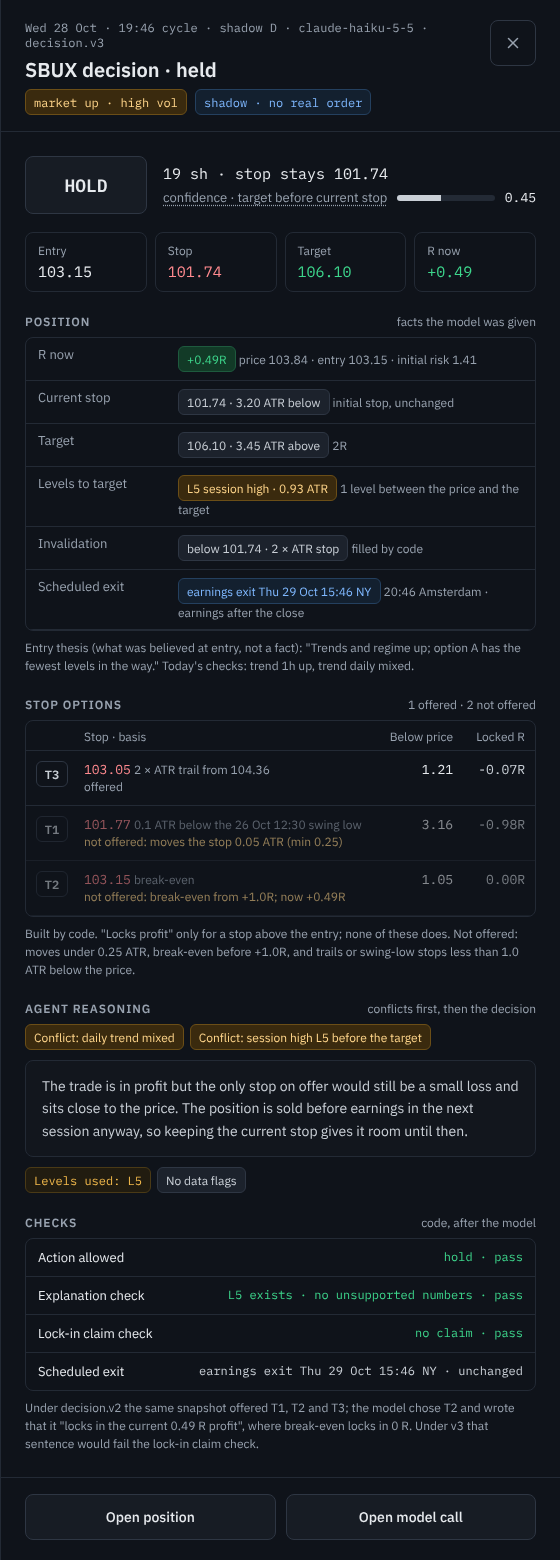
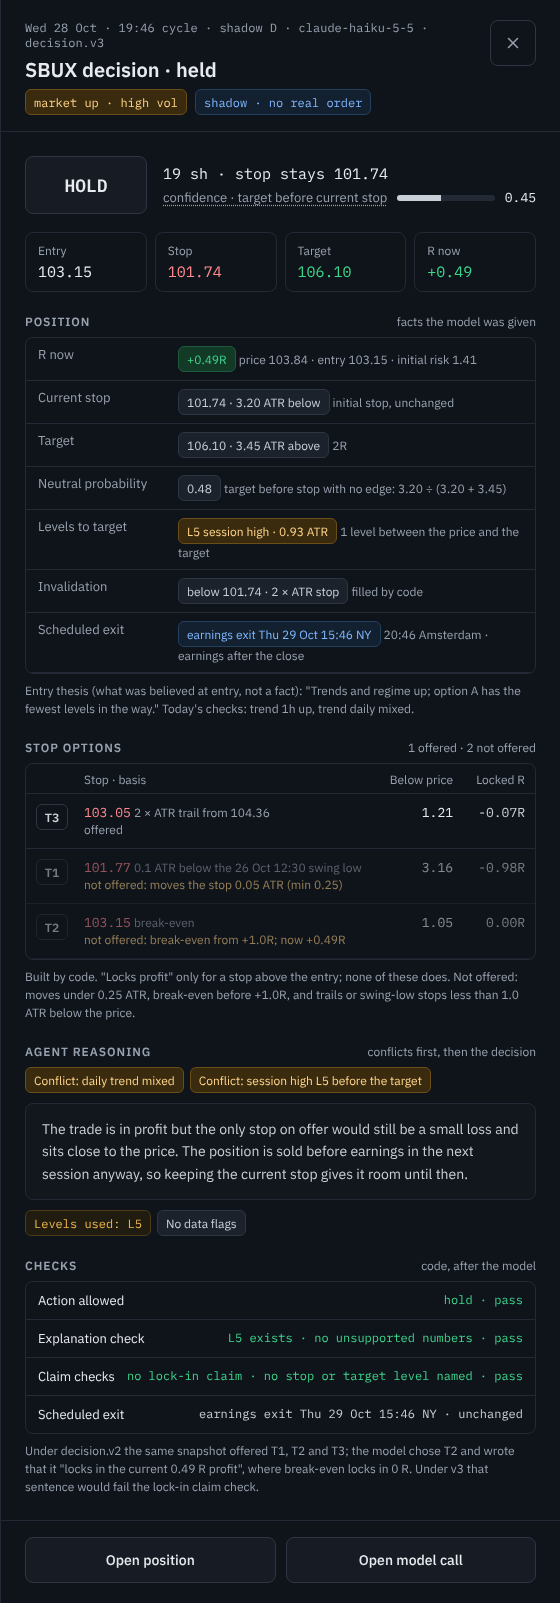
spec: v3 held confidence, stop claims, momentum, merged levels
From the review of a held ACN decision (28 Oct 15:46):
- checks.momentum; levels within 0.05 ATR merged into one id with kinds
- held: neutral_probability as the confidence starting point,
  stop_level, invalidation naming the level by kind, time and price
- stop and target basis written by code; claim check for a stop or
  target attributed to the wrong level
- decision.v3.md (unused) updated to match; config level_merge_atr
- design: momentum row, "written by code" basis line, neutral
  probability row, claim checks gate
- kickoffs: PR 30 updated; new read-only analysis of IEX quote
  plausibility

Claude-Session: https://claude.ai/code/session_01TTAYs1XwGZDitQPmFWu5tz

diff --git a/design/screens/DecisionV3.dc.html b/design/screens/DecisionV3.dc.html
@@ -55,6 +55,9 @@ a{color:#F2B94B}a:hover{color:#FFD58A}
   <span style="color: #98A2AF">Room to first level</span>
   <span style="min-width: 0"><span style="display: inline-flex; align-items: center; height: 24px; padding: 0 8px; border-radius: 6px; font-size: 12px; white-space: nowrap; background: #123A27; color: #3DD68C; border: 1px solid #1E5A3E">1.35 ATR · L3</span> <span style="font-size: 12px; color: #98A2AF">at least 1.0 ATR</span></span>
 </div><div style="display: grid; grid-template-columns: 150px minmax(0, 1fr); gap: 10px; padding: 8px 12px; border-top: 1px solid #232A35; font-size: 13px">
+  <span style="color: #98A2AF">Momentum</span>
+  <span style="min-width: 0"><span style="display: inline-flex; align-items: center; height: 24px; padding: 0 8px; border-radius: 6px; font-size: 12px; white-space: nowrap; background: #123A27; color: #3DD68C; border: 1px solid #1E5A3E">strong</span> <span style="font-size: 12px; color: #98A2AF">relative strength vs SPY +0.84% · OBV up</span></span>
+</div><div style="display: grid; grid-template-columns: 150px minmax(0, 1fr); gap: 10px; padding: 8px 12px; border-top: 1px solid #232A35; font-size: 13px">
   <span style="color: #98A2AF">Earnings</span>
   <span style="min-width: 0"><span style="display: inline-flex; align-items: center; height: 24px; padding: 0 8px; border-radius: 6px; font-size: 12px; white-space: nowrap; background: #1C222C; color: #C9CFD6; border: 1px solid #2E3643">9 trading days · 27 Oct after close</span> <span style="font-size: 12px; color: #98A2AF">outside the 3-day blackout</span></span>
 </div><div style="display: grid; grid-template-columns: 150px minmax(0, 1fr); gap: 10px; padding: 8px 12px; border-top: 1px solid #232A35; font-size: 13px">
@@ -125,7 +128,7 @@ a{color:#F2B94B}a:hover{color:#FFD58A}
   <span style="font-family: 'IBM Plex Mono', monospace">414.60</span>
   <span style="min-width: 0; color: #C9CFD6">swing low <span style="color: #98A2AF">· 1h · 14 Oct 12:30</span> <span style="font-size: 12px; color: #98A2AF">· too close for a stop · 1.23 ATR</span></span>
 </div><div style="display: grid; grid-template-columns: 34px 64px minmax(0, 1fr); gap: 8px; padding: 7px 10px; font-size: 13px; border-top: 1px solid #232A35">
-  <span style="font-family: 'IBM Plex Mono', monospace; color: #F2B94B; font-weight: 600">L8</span>
+  <span style="font-family: 'IBM Plex Mono', monospace; color: #98A2AF; font-weight: 400">L8</span>
   <span style="font-family: 'IBM Plex Mono', monospace">409.95</span>
   <span style="min-width: 0; color: #C9CFD6">swing low <span style="color: #98A2AF">· 1h · 13 Oct 14:30</span> <span style="font-size: 12px; color: #98A2AF">· stop 409.64 · 2.73 ATR</span></span>
 </div><div style="display: grid; grid-template-columns: 34px 64px minmax(0, 1fr); gap: 8px; padding: 7px 10px; font-size: 13px; border-top: 1px solid #232A35">
@@ -136,13 +139,14 @@ a{color:#F2B94B}a:hover{color:#FFD58A}
 
     <div style="display: flex; justify-content: space-between; align-items: baseline; gap: 8px; margin: 22px 0 8px"><h3 style="margin: 0; font-size: 12px; font-weight: 600; color: #98A2AF; text-transform: uppercase; letter-spacing: 0.08em">Agent reasoning</h3><span style="font-size: 12px; color: #98A2AF">conflicts first, then the decision</span></div>
     <div style="display: flex; flex-wrap: wrap; gap: 6px; margin-bottom: 10px"><span style="display: inline-flex; align-items: center; height: 24px; padding: 0 8px; border-radius: 6px; font-size: 12px; white-space: nowrap; background: #3A2A0E; color: #FFD58A; border: 1px solid #6B4E17">Conflict: RSI 63 near the top of its range</span><span style="display: inline-flex; align-items: center; height: 24px; padding: 0 8px; border-radius: 6px; font-size: 12px; white-space: nowrap; background: #3A2A0E; color: #FFD58A; border: 1px solid #6B4E17">Conflict: October high L1 before the 2R target</span></div>
-    <div style="padding: 14px 16px; border: 1px solid #232A35; border-radius: 8px; background: #12161D; line-height: 1.6; color: #C9CFD6">Both trends and the market agree, and the first hurdle (L3) is far enough away. The pullback to the 1h EMA 20 held above VWAP (L4). The stop goes under the 13 Oct swing low (L8); the October high (L1) is the main risk on the way to the 2R target.</div>
-    <div style="display: flex; flex-wrap: wrap; gap: 6px; margin-top: 10px"><span style="display: inline-flex; align-items: center; height: 24px; padding: 0 8px; border-radius: 6px; font-family: 'IBM Plex Mono', monospace; font-size: 12px; white-space: nowrap; background: #211C10; color: #F2B94B; border: 1px solid #4A3A16">Levels used: L1 · L3 · L4 · L8</span><span style="display: inline-flex; align-items: center; height: 24px; padding: 0 8px; border-radius: 6px; font-size: 12px; white-space: nowrap; background: #1C222C; color: #C9CFD6; border: 1px solid #2E3643">No data flags</span></div>
+    <div style="padding: 14px 16px; border: 1px solid #232A35; border-radius: 8px; background: #12161D; line-height: 1.6; color: #C9CFD6">Both trends and the market agree, and the first hurdle (L3) is far enough away. The pullback to the 1h EMA 20 held above VWAP (L4). Momentum is strong, and the October high (L1) is the main risk on the way to the target.</div>
+    <div style="margin-top: 8px; font-size: 12px; color: #98A2AF; line-height: 1.5">Written by code: stop 409.64, 0.1 ATR below the 13 Oct 14:30 1h swing low (L8) · target 435.92, 2R.</div>
+    <div style="display: flex; flex-wrap: wrap; gap: 6px; margin-top: 10px"><span style="display: inline-flex; align-items: center; height: 24px; padding: 0 8px; border-radius: 6px; font-family: 'IBM Plex Mono', monospace; font-size: 12px; white-space: nowrap; background: #211C10; color: #F2B94B; border: 1px solid #4A3A16">Levels used: L1 · L3 · L4</span><span style="display: inline-flex; align-items: center; height: 24px; padding: 0 8px; border-radius: 6px; font-size: 12px; white-space: nowrap; background: #1C222C; color: #C9CFD6; border: 1px solid #2E3643">No data flags</span></div>
     <div style="display: flex; align-items: center; gap: 8px; margin-top: 10px; padding: 10px 12px; border: 1px solid #1E5A3E; background: #123A27; border-radius: 8px; font-size: 13px; color: #3DD68C"><svg width="16" height="16" viewBox="0 0 24 24" fill="none" stroke="currentColor" stroke-width="2" stroke-linecap="round" stroke-linejoin="round" aria-hidden="true" style="flex: 0 0 16px"><polyline points="5 12 10 17 19 7"></polyline></svg><span>Explanation check passed: every level id exists and no number is outside the input.</span></div>
     <div style="margin-top: 10px; padding: 10px 12px; border: 1px dashed #2E3643; border-radius: 8px; font-size: 12px; color: #98A2AF; line-height: 1.5"><b style="color: #C9CFD6; font-weight: 600">When code removes every option</b>, no model call is made and the drawer shows the reason instead, for example: <span style="font-family: 'IBM Plex Mono', monospace; color: #C9CFD6">no_options · room: L7 1h swing high 0.31 ATR above the limit (min 1.0)</span>. <b style="color: #C9CFD6; font-weight: 600">When the model flags a data conflict</b>, a red chip such as "Data flag: earnings date conflict" appears here and an event is logged.</div>
 
     <div style="display: flex; justify-content: space-between; align-items: baseline; gap: 8px; margin: 22px 0 8px"><h3 style="margin: 0; font-size: 12px; font-weight: 600; color: #98A2AF; text-transform: uppercase; letter-spacing: 0.08em">Safety gates</h3><span style="font-size: 12px; color: #98A2AF">option, code checks, then risk gates</span></div>
-    <div style="border: 1px solid #232A35; border-radius: 8px; overflow: hidden"><div style="display: flex; justify-content: space-between; gap: 12px; padding: 10px 12px;  font-size: 13px"><span>Option D offered</span><span style="font-family: 'IBM Plex Mono', monospace; font-size: 12px; color: #3DD68C; text-align: right">valid choice · pass</span></div><div style="display: flex; justify-content: space-between; gap: 12px; padding: 10px 12px; border-top: 1px solid #232A35; font-size: 13px"><span>Stop 1.5–4 × ATR (1h)</span><span style="font-family: 'IBM Plex Mono', monospace; font-size: 12px; color: #3DD68C; text-align: right">8.46 = 2.73 × ATR · pass</span></div><div style="display: flex; justify-content: space-between; gap: 12px; padding: 10px 12px; border-top: 1px solid #232A35; font-size: 13px"><span>Reward / risk ≥ 1.5</span><span style="font-family: 'IBM Plex Mono', monospace; font-size: 12px; color: #3DD68C; text-align: right">2.00 · pass</span></div><div style="display: flex; justify-content: space-between; gap: 12px; padding: 10px 12px; border-top: 1px solid #232A35; font-size: 13px"><span>Room to first level ≥ 1.0 ATR</span><span style="font-family: 'IBM Plex Mono', monospace; font-size: 12px; color: #3DD68C; text-align: right">L3 · 1.35 · pass</span></div><div style="display: flex; justify-content: space-between; gap: 12px; padding: 10px 12px; border-top: 1px solid #232A35; font-size: 13px"><span>Confidence ≥ max(0.55, break-even + 0.10)</span><span style="font-family: 'IBM Plex Mono', monospace; font-size: 12px; color: #3DD68C; text-align: right">0.61 ≥ max(0.55, 0.43) · pass</span></div><div style="display: flex; justify-content: space-between; gap: 12px; padding: 10px 12px; border-top: 1px solid #232A35; font-size: 13px"><span>Explanation check</span><span style="font-family: 'IBM Plex Mono', monospace; font-size: 12px; color: #3DD68C; text-align: right">L1, L3, L4, L8 exist · no unsupported numbers · pass</span></div><div style="display: flex; justify-content: space-between; gap: 12px; padding: 10px 12px; border-top: 1px solid #232A35; font-size: 13px"><span>Risk per trade ≤ 0.5%</span><span style="font-family: 'IBM Plex Mono', monospace; font-size: 12px; color: #3DD68C; text-align: right">$35.04 = 0.34% · pass</span></div><div style="display: flex; justify-content: space-between; gap: 12px; padding: 10px 12px; border-top: 1px solid #232A35; font-size: 13px"><span>Max position 20%</span><span style="font-family: 'IBM Plex Mono', monospace; font-size: 12px; color: #F2B94B; text-align: right">5 → 4 sh · 16.4% · reduced</span></div><div style="display: flex; justify-content: space-between; gap: 12px; padding: 10px 12px; border-top: 1px solid #232A35; font-size: 13px"><span>Other risk gates</span><span style="font-family: 'IBM Plex Mono', monospace; font-size: 12px; color: #3DD68C; text-align: right">9 of 9 pass</span></div><div style="display: flex; justify-content: space-between; gap: 12px; padding: 10px 12px; border-top: 1px solid #232A35; font-size: 13px"><span>Fresh quote at order time</span><span style="font-family: 'IBM Plex Mono', monospace; font-size: 12px; color: #C9CFD6; text-align: right">virtual fill · shadow</span></div></div>
+    <div style="border: 1px solid #232A35; border-radius: 8px; overflow: hidden"><div style="display: flex; justify-content: space-between; gap: 12px; padding: 10px 12px;  font-size: 13px"><span>Option D offered</span><span style="font-family: 'IBM Plex Mono', monospace; font-size: 12px; color: #3DD68C; text-align: right">valid choice · pass</span></div><div style="display: flex; justify-content: space-between; gap: 12px; padding: 10px 12px; border-top: 1px solid #232A35; font-size: 13px"><span>Stop 1.5–4 × ATR (1h)</span><span style="font-family: 'IBM Plex Mono', monospace; font-size: 12px; color: #3DD68C; text-align: right">8.46 = 2.73 × ATR · pass</span></div><div style="display: flex; justify-content: space-between; gap: 12px; padding: 10px 12px; border-top: 1px solid #232A35; font-size: 13px"><span>Reward / risk ≥ 1.5</span><span style="font-family: 'IBM Plex Mono', monospace; font-size: 12px; color: #3DD68C; text-align: right">2.00 · pass</span></div><div style="display: flex; justify-content: space-between; gap: 12px; padding: 10px 12px; border-top: 1px solid #232A35; font-size: 13px"><span>Room to first level ≥ 1.0 ATR</span><span style="font-family: 'IBM Plex Mono', monospace; font-size: 12px; color: #3DD68C; text-align: right">L3 · 1.35 · pass</span></div><div style="display: flex; justify-content: space-between; gap: 12px; padding: 10px 12px; border-top: 1px solid #232A35; font-size: 13px"><span>Confidence ≥ max(0.55, break-even + 0.10)</span><span style="font-family: 'IBM Plex Mono', monospace; font-size: 12px; color: #3DD68C; text-align: right">0.61 ≥ max(0.55, 0.43) · pass</span></div><div style="display: flex; justify-content: space-between; gap: 12px; padding: 10px 12px; border-top: 1px solid #232A35; font-size: 13px"><span>Explanation check</span><span style="font-family: 'IBM Plex Mono', monospace; font-size: 12px; color: #3DD68C; text-align: right">L1, L3, L4 exist · no unsupported numbers · pass</span></div><div style="display: flex; justify-content: space-between; gap: 12px; padding: 10px 12px; border-top: 1px solid #232A35; font-size: 13px"><span>Claim checks</span><span style="font-family: 'IBM Plex Mono', monospace; font-size: 12px; color: #3DD68C; text-align: right">no stop or target level named · pass</span></div><div style="display: flex; justify-content: space-between; gap: 12px; padding: 10px 12px; border-top: 1px solid #232A35; font-size: 13px"><span>Risk per trade ≤ 0.5%</span><span style="font-family: 'IBM Plex Mono', monospace; font-size: 12px; color: #3DD68C; text-align: right">$35.04 = 0.34% · pass</span></div><div style="display: flex; justify-content: space-between; gap: 12px; padding: 10px 12px; border-top: 1px solid #232A35; font-size: 13px"><span>Max position 20%</span><span style="font-family: 'IBM Plex Mono', monospace; font-size: 12px; color: #F2B94B; text-align: right">5 → 4 sh · 16.4% · reduced</span></div><div style="display: flex; justify-content: space-between; gap: 12px; padding: 10px 12px; border-top: 1px solid #232A35; font-size: 13px"><span>Other risk gates</span><span style="font-family: 'IBM Plex Mono', monospace; font-size: 12px; color: #3DD68C; text-align: right">9 of 9 pass</span></div><div style="display: flex; justify-content: space-between; gap: 12px; padding: 10px 12px; border-top: 1px solid #232A35; font-size: 13px"><span>Fresh quote at order time</span><span style="font-family: 'IBM Plex Mono', monospace; font-size: 12px; color: #C9CFD6; text-align: right">virtual fill · shadow</span></div></div>
     <div style="font-size: 12px; color: #98A2AF; margin-top: 8px; line-height: 1.5">Shadow C (decision.v2) on the same snapshot: ENTER option D, without the room and break-even checks. At order time the chosen stop and target stay fixed; if the fresh price breaks the stop distance or R/R, the entry fails the Fresh quote gate. Code never picks another option.</div>
   </div>
 

diff --git a/design/screens/DecisionV3Held.dc.html b/design/screens/DecisionV3Held.dc.html
@@ -31,7 +31,7 @@ a{color:#F2B94B}a:hover{color:#FFD58A}
       <div style="min-width: 88px; height: 56px; padding: 0 16px; border-radius: 8px; display: flex; align-items: center; justify-content: center; font-family: 'IBM Plex Mono', monospace; font-weight: 600; font-size: 18px; background: #171C24; color: #E7EAEE; border: 1px solid #2E3643">HOLD</div>
       <div style="flex: 1; min-width: 0; display: flex; flex-direction: column; gap: 6px">
         <div style="font-family: 'IBM Plex Mono', monospace; font-size: 15px">19 sh · stop stays 101.74</div>
-        <div style="display: flex; align-items: center; gap: 10px; font-size: 13px; color: #98A2AF"><span title="Hold: the model's estimate that price reaches the target before the current stop. Not gated; kept out of the entry calibration." style="text-decoration: underline dotted; text-underline-offset: 3px; cursor: help">confidence · target before current stop</span>
+        <div style="display: flex; align-items: center; gap: 10px; font-size: 13px; color: #98A2AF"><span title="Hold: the model's estimate that price reaches the target before the current stop. Starts from the neutral probability (0.48). Not gated; kept out of the entry calibration." style="text-decoration: underline dotted; text-underline-offset: 3px; cursor: help">confidence · target before current stop</span>
           <div style="flex: 1; height: 6px; background: #232A35; border-radius: 3px; overflow: hidden"><div style="width: 45%; height: 6px; background: #C9CFD6"></div></div>
           <span style="font-family: 'IBM Plex Mono', monospace; color: #E7EAEE">0.45</span></div>
       </div>
@@ -51,6 +51,9 @@ a{color:#F2B94B}a:hover{color:#FFD58A}
 </div><div style="display: grid; grid-template-columns: 130px minmax(0, 1fr); gap: 10px; padding: 8px 12px; border-bottom: 1px solid #232A35; font-size: 13px">
   <span style="color: #98A2AF">Target</span>
   <span style="min-width: 0"><span style="display: inline-flex; align-items: center; height: 24px; padding: 0 8px; border-radius: 6px; font-size: 12px; white-space: nowrap; background: #1C222C; color: #C9CFD6; border: 1px solid #2E3643">106.10 · 3.45 ATR above</span> <span style="font-size: 12px; color: #98A2AF">2R</span></span>
+</div><div style="display: grid; grid-template-columns: 130px minmax(0, 1fr); gap: 10px; padding: 8px 12px; border-bottom: 1px solid #232A35; font-size: 13px">
+  <span style="color: #98A2AF">Neutral probability</span>
+  <span style="min-width: 0"><span style="display: inline-flex; align-items: center; height: 24px; padding: 0 8px; border-radius: 6px; font-size: 12px; white-space: nowrap; background: #1C222C; color: #C9CFD6; border: 1px solid #2E3643">0.48</span> <span style="font-size: 12px; color: #98A2AF">target before stop with no edge: 3.20 ÷ (3.20 + 3.45)</span></span>
 </div><div style="display: grid; grid-template-columns: 130px minmax(0, 1fr); gap: 10px; padding: 8px 12px; border-bottom: 1px solid #232A35; font-size: 13px">
   <span style="color: #98A2AF">Levels to target</span>
   <span style="min-width: 0"><span style="display: inline-flex; align-items: center; height: 24px; padding: 0 8px; border-radius: 6px; font-size: 12px; white-space: nowrap; background: #3A2A0E; color: #FFD58A; border: 1px solid #6B4E17">L5 session high · 0.93 ATR</span> <span style="font-size: 12px; color: #98A2AF">1 level between the price and the target</span></span>
@@ -87,7 +90,7 @@ a{color:#F2B94B}a:hover{color:#FFD58A}
     <div style="display: flex; flex-wrap: wrap; gap: 6px; margin-top: 10px"><span style="display: inline-flex; align-items: center; height: 24px; padding: 0 8px; border-radius: 6px; font-family: 'IBM Plex Mono', monospace; font-size: 12px; white-space: nowrap; background: #211C10; color: #F2B94B; border: 1px solid #4A3A16">Levels used: L5</span><span style="display: inline-flex; align-items: center; height: 24px; padding: 0 8px; border-radius: 6px; font-size: 12px; white-space: nowrap; background: #1C222C; color: #C9CFD6; border: 1px solid #2E3643">No data flags</span></div>
 
     <div style="display: flex; justify-content: space-between; align-items: baseline; gap: 8px; margin: 22px 0 8px"><h3 style="margin: 0; font-size: 12px; font-weight: 600; color: #98A2AF; text-transform: uppercase; letter-spacing: 0.08em">Checks</h3><span style="font-size: 12px; color: #98A2AF">code, after the model</span></div>
-    <div style="border: 1px solid #232A35; border-radius: 8px; overflow: hidden"><div style="display: flex; justify-content: space-between; gap: 12px; padding: 10px 12px;  font-size: 13px"><span>Action allowed</span><span style="font-family: 'IBM Plex Mono', monospace; font-size: 12px; color: #3DD68C; text-align: right">hold · pass</span></div><div style="display: flex; justify-content: space-between; gap: 12px; padding: 10px 12px; border-top: 1px solid #232A35; font-size: 13px"><span>Explanation check</span><span style="font-family: 'IBM Plex Mono', monospace; font-size: 12px; color: #3DD68C; text-align: right">L5 exists · no unsupported numbers · pass</span></div><div style="display: flex; justify-content: space-between; gap: 12px; padding: 10px 12px; border-top: 1px solid #232A35; font-size: 13px"><span>Lock-in claim check</span><span style="font-family: 'IBM Plex Mono', monospace; font-size: 12px; color: #3DD68C; text-align: right">no claim · pass</span></div><div style="display: flex; justify-content: space-between; gap: 12px; padding: 10px 12px; border-top: 1px solid #232A35; font-size: 13px"><span>Scheduled exit</span><span style="font-family: 'IBM Plex Mono', monospace; font-size: 12px; color: #C9CFD6; text-align: right">earnings exit Thu 29 Oct 15:46 NY · unchanged</span></div></div>
+    <div style="border: 1px solid #232A35; border-radius: 8px; overflow: hidden"><div style="display: flex; justify-content: space-between; gap: 12px; padding: 10px 12px;  font-size: 13px"><span>Action allowed</span><span style="font-family: 'IBM Plex Mono', monospace; font-size: 12px; color: #3DD68C; text-align: right">hold · pass</span></div><div style="display: flex; justify-content: space-between; gap: 12px; padding: 10px 12px; border-top: 1px solid #232A35; font-size: 13px"><span>Explanation check</span><span style="font-family: 'IBM Plex Mono', monospace; font-size: 12px; color: #3DD68C; text-align: right">L5 exists · no unsupported numbers · pass</span></div><div style="display: flex; justify-content: space-between; gap: 12px; padding: 10px 12px; border-top: 1px solid #232A35; font-size: 13px"><span>Claim checks</span><span style="font-family: 'IBM Plex Mono', monospace; font-size: 12px; color: #3DD68C; text-align: right">no lock-in claim · no stop or target level named · pass</span></div><div style="display: flex; justify-content: space-between; gap: 12px; padding: 10px 12px; border-top: 1px solid #232A35; font-size: 13px"><span>Scheduled exit</span><span style="font-family: 'IBM Plex Mono', monospace; font-size: 12px; color: #C9CFD6; text-align: right">earnings exit Thu 29 Oct 15:46 NY · unchanged</span></div></div>
     <div style="font-size: 12px; color: #98A2AF; margin-top: 8px; line-height: 1.5">Under decision.v2 the same snapshot offered T1, T2 and T3; the model chose T2 and wrote that it "locks in the current 0.49 R profit", where break-even locks in 0 R. Under v3 that sentence would fail the lock-in claim check.</div>
   </div>
 

diff --git a/docs/SPEC.md b/docs/SPEC.md
@@ -1399,8 +1399,10 @@ Decision v3 fixes these with more work in code and a new prompt, `prompts/decisi
   - `regime_trend` and `regime_volatility` (as `regime` today);
   - `room_atr` and `room_level`: the distance from the entry limit to the first level in the way, in ATR(1h), counting only the kinds in `decision.v3.room_level_kinds`;
   - `earnings`: days to earnings, the date and the time of day;
-  - `news_status`.
+  - `news_status`;
+  - `momentum`: `strong` when `rs_vs_spy_pct` is above 0 and `obv_trend` is up; `weak` when `rs_vs_spy_pct` is below 0 and `obv_trend` is down; otherwise `mixed`.
 - **Levels:** each also gets `distance_atr`, its signed distance from the entry limit in ATR (positive above).
+- **Levels at the same price are merged.** Levels within `decision.v3.level_merge_atr` (0.05) × ATR of each other become one id. It keeps the highest-ranked kind and lists every kind in `kinds`, for example a 1h swing high and the session high at 246.79 (ACN, 28 October). A level that is several kinds at once is the stronger level, and the list carries less noise.
 - **Options:** `levels_in_way` lists each level with its `distance_atr`. Each option also gets `breakeven_confidence` = 1 ÷ (1 + rr).
 - **Constraints** gain `min_room_atr`, `min_confidence` (the strategy's `min_confidence_enter`) and `min_edge`.
 - **`rank`** stays and is explained in the prompt: the symbol's place in the daily liquidity screen (1 = most liquid), not a reason to enter.
@@ -1420,6 +1422,8 @@ Decision v3 fixes these with more work in code and a new prompt, `prompts/decisi
 - **Data flags:** a new `data_flags` field (`earnings_date_conflict`, `price_conflict`, `stale_or_missing_data`). For example a headline announcing results within the blackout while `checks.earnings` says otherwise. With a data flag, skip a candidate.
 - **No reasons outside the input:** never justify a stop or target with something the snapshot doesn't contain.
 - **Field guide:** every snapshot field is explained, including `checks`, `quote.plausible`, `spread_unknown` and `rank`.
+- **Momentum:** `checks.momentum` `weak` is a conflict: for a candidate it argues for skip; for a held position it supports `exit` only together with other evidence.
+- **Stop and target basis:** the thesis doesn't describe where the stop or target sits; code adds that.
 - **Name:** the prompt calls the app Stock Trading Agent.
 
 **Output schema v3**, all fields required, in this order: `symbol`, `conflicts` (up to 5 short phrases), `data_flags` (enum list, may be empty), `thesis`, `action`, `option_id`, `confidence`, `levels_used`, `news_used`. `conflicts` takes the place of v2's `risks` in storage and in the drawer. The schema keeps the same strictness. Under PR 29 its range checks are stripped from the copy sent to Anthropic and enforced by Pydantic.
@@ -1437,6 +1441,8 @@ Decision v3 fixes these with more work in code and a new prompt, `prompts/decisi
 - `original_invalidation` was `"unavailable"`;
 - the model didn't know the code would sell the position the next day before earnings.
 
+A third review (ACN held, 28 October 15:46) added: 0.65 confidence for a target 3.4 × ATR away against a stop 1.9 × ATR away, where no edge gives 0.36; a stop attributed to the wrong level at entry and again when held; falling relative strength and OBV called "supporting continuation"; and two levels listed at the same price.
+
 v2 stays as it is; for v3 strategies:
 - **Stop options (option builder version 2):**
   - `locks_profit` is true only for a stop above the entry;
@@ -1447,15 +1453,20 @@ v2 stays as it is; for v3 strategies:
   - These thresholds are strategy-overridable, so a shadow can test them. Dropped options are listed with their reason in the drawer ("break-even from +1.0R; now +0.49R").
 - **Position context:**
   - `position` gains `r_now`, `stop_distance_atr`, `target_distance_atr` and `levels_to_target` (the levels between the price and the target, each with `distance_atr`);
-  - `invalidation` is always filled by code: the initial stop with its basis, for example "below 101.74: 2 × ATR stop";
+  - `invalidation` is always filled by code: the initial stop with its basis, naming the level by kind, time and price rather than by id, because ids are renumbered every cycle. For example "below 237.91: 0.1 ATR below the 20 Oct 12:30 1h swing low (238.22)" or "below 101.74: 2 × ATR stop";
+  - `stop_level`: the id of that level in this cycle's `levels` when it is still listed (matched by kind, time and price), otherwise null;
+  - `neutral_probability`: the chance of reaching the target before the stop with no edge at all, from the distances to the market price: stop distance ÷ (stop distance + target distance);
   - `entry_thesis` replaces `original_thesis`, and the prompt treats it as what was believed at entry, not as a fact.
 - **Scheduled exit:** when code will sell the position anyway (today: the earnings exit when holding through earnings is off), `position.scheduled_exit` says why and when, for example "earnings exit Thu 29 Oct 15:46 NY". `hold` is then the default, and the coming earnings aren't listed as a conflict.
-- **Confidence for held decisions** is defined per action:
+- **Confidence for held decisions** starts at `position.neutral_probability` and moves only for concrete reasons in the input, as entries start at break-even. It is defined per action:
   - `hold`: target before the current stop;
   - `tighten_stop`: target before the new stop;
   - `exit`: target before the current stop, as if held (a low number supports the exit).
   - Held confidence is stored but not gated, and it's kept out of the entry calibration on Readiness and Insights.
-- **Claim check:** a thesis that says the stop "locks in" profit while the chosen stop's `locked_r` is 0 or less gets the warning `unsupported_claim`, like a failed explanation check.
+- **Claim checks** (warning `unsupported_claim`, like a failed explanation check; the decision stands):
+  - a thesis that says the stop "locks in" profit while the chosen stop's `locked_r` is 0 or less;
+  - a sentence that mentions the stop (or the target) together with a level id other than the stop's (or target's) own level. The ACN entry of 28 October said its stop was "just below L13", while it was 0.1 ATR below L14, and the held decisions repeated it.
+- **Code describes the stop and target.** The model's thesis explains *why*. The stop's and target's basis come from code and are shown next to the thesis in the drawer, the feed and the stored decision. The prompt tells the model not to describe where the stop or target sits.
 
 **Replay.** `make replay PROMPT=decision.v3` builds v3 snapshots from the stored v2 inputs (levels, indicators, options, earnings and headlines), with no refetch. The report adds:
 - options and snapshots removed by the room filter, and which v2 or live entries they would have blocked, with those entries' outcomes;
@@ -1464,6 +1475,7 @@ v2 stays as it is; for v3 strategies:
 - the most frequent conflicts, and every data flag with its snapshot;
 - v2 against v3 on the same snapshots: enter rate, agreement, and R of the chosen options.
 - held decisions: actions per context, stop options dropped per reason, and what the chosen stops did afterwards (stopped out within 5 sessions, and R given up against holding the old stop).
+- held confidence against `neutral_probability`, and the claim-check failures by kind.
 
 It can run with any model in the list (PR 29), so v3 can be compared on OpenAI and Claude models at once.
 

diff --git a/backend/prompts/decision.v3.md b/backend/prompts/decision.v3.md
@@ -22,9 +22,11 @@ Fill the output in order. First list what speaks against the trade in `conflicts
   - With `checks.trend_daily` `mixed`, enter only when everything else agrees and your confidence is well above break-even.
   - With `checks.trend_daily` `down`, never enter.
 - **Volatility.** With `checks.regime_volatility` `high`, every check must agree. Prefer the option with the nearer target.
+- **Momentum.** `checks.momentum` `weak` (falling relative strength against SPY and falling OBV) is a conflict. List it, and skip unless everything else is strong.
 - **Room.** Every offered option already has at least the minimum room (`constraints.min_room_atr`) up to the first level in its way. More room is better: a level 1.1 ATR above the entry is still a hurdle.
 - **Levels in the way.** Each option lists the levels in its way with their distance in ATR. A target behind several strong levels (daily swing highs, the session high) is less likely to be reached than its `rr` suggests.
-- **Stops.** Prefer a stop below a real level (a swing low) over a plain ATR stop when both are offered, unless that level is about to be broken. Don't describe a stop as "below a swing low" unless its `stop_basis` says so.
+- **Stops.** Prefer a stop below a real level (a swing low) over a plain ATR stop when both are offered, unless that level is about to be broken.
+- **Don't describe where the stop or target sits.** Code shows each option's `stop_basis` and `target_basis` next to your thesis. Your thesis explains why; never name a level as the stop's or target's level yourself.
 - **When in doubt, skip.** Missing a trade costs nothing; a bad trade costs money.
 
 ## Confidence
@@ -34,6 +36,8 @@ Fill the output in order. First list what speaks against the trade in `conflicts
 - `enter`: the chosen option's target before its stop;
 - `hold` or `exit`: the position's target before its current stop (for `exit`, a low number is the reason to leave);
 - `tighten_stop`: the position's target before the new stop.
+
+For held positions, start from `position.neutral_probability`: the chance of reaching the target first with no edge at all, from the distances to the stop and the target. Move from there only for concrete reasons in the input.
 
 For entries:
 
@@ -46,7 +50,8 @@ For entries:
 
 - `hold` is the default. A position is supposed to have room to move between its stop and its target.
 - `position.entry_thesis` is what was believed at entry, not a fact. Check it against today's `checks`.
-- `exit` only when the reason for the trade no longer holds: the entry thesis is contradicted by the current checks, or `position.invalidation` has as good as happened.
+- `exit` only when the reason for the trade no longer holds: the entry thesis is contradicted by the current checks, or `position.invalidation` has as good as happened. `checks.momentum` `weak` supports an exit only together with other evidence.
+- The entry thesis can be wrong about facts too. The stop's real basis is `position.invalidation` (and `position.stop_level` when that level is still listed).
 - `tighten_stop` only when a stop option protects a gain the trade has earned or sits under a new level that matters. Each stop option shows `locked_r` (the R kept if that stop is hit; 0 is break-even, below 0 is still a loss) and `distance_atr` (how far below the price). A stop close to the price is easily hit by normal moves.
 - Only say a stop "locks in profit" when its `locks_profit` is true, and then use its `locked_r`, never `position.r_now`.
 - `position.levels_to_target` lists the levels between the price and the target, with their distance in ATR.
@@ -92,11 +97,11 @@ The user message holds a JSON snapshot:
 - `price` (the market price, the last trade) and `price_time`.
 - `quote`: `bid` and `ask` only when plausible, otherwise null; `plausible`; `spread_unknown` (the small exchange's book was thin; not a reason to skip on its own).
 - `signal_bar`: time and close of the last completed 1-hour bar, the bar this decision is based on.
-- `checks`: `trend_1h`, `trend_daily` (`up`, `down` or `mixed`, worked out by code from the averages), `regime_trend`, `regime_volatility`, `room_atr` and `room_level` (room from the entry to the first level in the way), `earnings` (days, date, time of day), `news_status`.
+- `checks`: `trend_1h`, `trend_daily` (`up`, `down` or `mixed`, worked out by code from the averages), `regime_trend`, `regime_volatility`, `room_atr` and `room_level` (room from the entry to the first level in the way), `earnings` (days, date, time of day), `news_status`, `momentum` (`strong`, `weak` or `mixed`, from relative strength against SPY and OBV).
 - `regime`, `indicators_1h`, `indicators_daily`: the numbers behind the checks.
-- `levels`: each with `id`, `price`, `kind` (swing_low, swing_high, prior_session_high, prior_session_low, prior_session_close, session_high, session_low, vwap), `timeframe`, `time` and `distance_atr` from the entry limit (positive above).
+- `levels`: each with `id`, `price`, `kind` (swing_low, swing_high, prior_session_high, prior_session_low, prior_session_close, session_high, session_low, vwap), `kinds` when several levels at the same price were merged into one (a stronger level), `timeframe`, `time` and `distance_atr` from the entry limit (positive above).
 - `constraints`: `atr_1h`, `entry_limit`, the allowed stop range, `min_rr`, `min_room_atr`, `min_confidence`, `min_edge`.
 - `options` (candidates): `id`, `stop`, `stop_basis`, `stop_atr`, `target`, `target_basis`, `rr`, `breakeven_confidence`, and `levels_in_way` with each level's `distance_atr`.
 - `stop_options` (held): `id`, `stop`, `basis`, `locks_profit` (true only above the entry), `locked_r`, `distance_atr`. Options that would barely move the stop, break-even before +1R and stops too close to the price are not offered.
-- `position` (held): entry, quantity, initial stop, current stop, target, opened at, `entry_thesis`, `invalidation`, `r_now`, `stop_distance_atr`, `target_distance_atr`, `levels_to_target`, and `scheduled_exit` when code will sell it anyway.
+- `position` (held): entry, quantity, initial stop, current stop, target, opened at, `entry_thesis`, `invalidation` (the stop's basis, written by code), `stop_level`, `r_now`, `stop_distance_atr`, `target_distance_atr`, `neutral_probability`, `levels_to_target`, and `scheduled_exit` when code will sell it anyway.
 - `headlines`: id, time, source and title.

diff --git a/docs/kickoffs/pr-30.md b/docs/kickoffs/pr-30.md
@@ -33,7 +33,11 @@ Build PR 30 only, in this order (one commit per step):
      from the spec;
    - distance_atr on levels and on each level in the way;
    - breakeven_confidence per option;
-   - constraints with min_room_atr, min_confidence and min_edge.
+   - constraints with min_room_atr, min_confidence and min_edge;
+   - checks.momentum from rs_vs_spy_pct and obv_trend;
+   - levels within decision.v3.level_merge_atr merged into one id with
+     kinds (applied before ids are numbered and before the option
+     builder uses them).
    The provenance the v3 snapshot doesn't send (stop_reference_price,
    quote timestamps, feed, fetch time) is still stored on the decision.
 2. Option builder version 2 (v3 strategies only): the room filter with
@@ -55,12 +59,17 @@ Build PR 30 only, in this order (one commit per step):
      decision.v3.held_stop_min_atr below the price; all three
      strategy-overridable; store dropped options with their reasons;
    - position: r_now, stop_distance_atr, target_distance_atr,
-     levels_to_target, invalidation filled by code, entry_thesis,
-     scheduled_exit when the earnings exit will sell it;
+     neutral_probability, levels_to_target, invalidation filled by code
+     (naming the level by kind, time and price), stop_level (this
+     cycle's id of that level, or null), entry_thesis, scheduled_exit
+     when the earnings exit will sell it;
    - held confidence stored per action, not gated, and kept out of the
      entry calibration on Readiness and Insights;
-   - the lock-in claim check (unsupported_claim when the thesis says the
-     stop locks in profit and the chosen stop's locked_r ≤ 0).
+   - claim checks (unsupported_claim, the decision stands): "locks in"
+     profit with locked_r ≤ 0, and a sentence naming the stop or target
+     together with a level id that isn't the stop's or target's own;
+   - the stop and target basis written by code next to the thesis in
+     the drawer, the feed and the stored decision.
 6. v3 in strategies, the new-shadow dialog, backtests and make replay
    (PROMPT=decision.v3; v3 snapshots derived from stored v2 inputs, no
    refetch), with the report additions from the spec (including the
@@ -104,6 +113,14 @@ Tests:
   locked_r 0 gets unsupported_claim.
 - Held confidence never blocks an action and doesn't appear in the
   entry calibration.
+- The ACN held snapshot of 28 Oct 15:46 (fixture: the stored v2 input):
+  neutral_probability 0.36 (stop 5.83 and target 10.38 from 243.74),
+  invalidation names the 20 Oct 12:30 1h swing low at 238.22,
+  stop_level is that level's id, momentum is weak (rs −3.82, OBV down),
+  and the levels at 246.79 are one id with kinds [swing_high,
+  session_high].
+- A thesis "the stop is below L13" when the stop's level is L14 gets
+  unsupported_claim; "the stop is below L14" passes.
 - A v3 shadow runs next to live in a simulated session; live's timing is
   unchanged.
 - No network in tests.

diff --git a/docs/kickoffs/quote-plausibility.md b/docs/kickoffs/quote-plausibility.md
@@ -1,0 +1,45 @@
+# Analysis — IEX quote plausibility
+
+Kickoff for Devin. Start the session with: "Build docs/kickoffs/quote-plausibility.md."
+
+```text
+Analysis, read-only: how often is the IEX quote implausible, and is the
+spread gate effectively switched off?
+
+Background: SPEC → Alpaca integration says bid and ask are used only when
+plausible (both present, timestamped, within 1% of the market price);
+otherwise the snapshot says spread_unknown and the entry may go ahead,
+so the 0.15% spread gate doesn't run. On 28 Oct, ACN (rank 1, the most
+liquid symbol) had bid 229.90 and ask 247.00 against a last trade of
+243.745 at 15:46 NY, and SBUX had bid 99.98 / ask 104.18 against
+103.84. If that's the normal case, the spread gate rarely runs without
+anyone having decided that.
+
+Do not change any code, config or data. Use the stored price
+provenance on decisions (and shadow decisions) of the current run.
+
+Report in docs/analysis/2026-10-29-quote-plausibility.md:
+1. Share of snapshots with plausible = false, overall and per cycle
+   time (10:46 … 15:46), per symbol (top 20 by count) and per liquidity
+   rank band (1–10, 11–30, 31+).
+2. For implausible quotes, which condition failed: bid missing, ask
+   missing, timestamp missing, bid more than 1% away, ask more than 1%
+   away. Show the distribution of distances.
+3. For plausible quotes: the spread distribution in % (median, p90,
+   p99) and how many entries the 0.15% gate blocked.
+4. How many entries went ahead with spread_unknown, and their entry
+   slippage in bps against the last trade, compared with entries that
+   had a plausible quote.
+5. Optional, only if it needs no new data source: what the 1-minute bar
+   range (high − low) at the decision time looked like, as a possible
+   replacement measure.
+6. A short conclusion with numbers: is the spread gate effectively off,
+   and which of these would you recommend: keep as is, drop the gate
+   officially, or replace it with another measure. Don't implement any
+   of them.
+
+Use a script under scripts/analysis/ (read-only database access,
+mode=ro), so the numbers can be produced again. Open a PR with the
+report and the script only. It touches docs/analysis/, so add the
+"spec change" label and a docs/CHANGES.md entry. No restart needed.
+```

diff --git a/docs/CHANGES.md b/docs/CHANGES.md
@@ -2,6 +2,22 @@
 
 Newest first.
 
+## 2026-10-29 — Decision v3: held confidence, stop claims, momentum, merged levels (PR 30)
+
+- From a review of a held ACN decision (28 October 15:46, decision.v2, gpt-4.1-mini):
+  - confidence 0.65 where no edge gives 0.36;
+  - the stop attributed to L13 while it sat below L14, at entry and again when held;
+  - weak momentum read as "supporting continuation";
+  - two levels at one price.
+- Decision v3 gains:
+  - `checks.momentum` (relative strength against SPY and OBV);
+  - levels within 0.05 × ATR merged into one id with `kinds` (`decision.v3.level_merge_atr`);
+  - for held positions, `position.neutral_probability` as the starting point for confidence, `position.stop_level`, and an invalidation that names the level by kind, time and price;
+  - the stop and target basis written by code, not by the model;
+  - a claim check for a stop or target attributed to the wrong level.
+- `prompts/decision.v3.md` updated to match. It has not been used yet, so it can still change.
+- The `input_incomplete` warning on that call came from `original_invalidation` being `"unavailable"`, fixed on 29 October.
+
 ## 2026-10-29 — Process: spec pull requests and kickoff files
 
 - Spec and design changes now arrive as pull requests from Claude on a `spec/…` branch with the `spec change` label, instead of files copied in by hand.

diff --git a/design/CHANGES.md b/design/CHANGES.md
@@ -2,6 +2,11 @@
 
 Newest first. Each entry names the screens it touches.
 
+## 2026-10-29 — Decision v3: momentum, neutral probability, stop basis by code
+
+- `DecisionV3.dc.html`: a Momentum row in Checks by code; the stop and target basis shown as a line "Written by code" under the reasoning (the model's text no longer describes them); a Claim checks gate.
+- `DecisionV3Held.dc.html`: a Neutral probability row in the position block (the starting point for held confidence); the claim checks gate now covers named stop or target levels too.
+
 ## 2026-10-28 — Decision v3 drawer
 
 - New `DecisionV3.dc.html` (PR 30), the decision.v3 version of the drawer:
